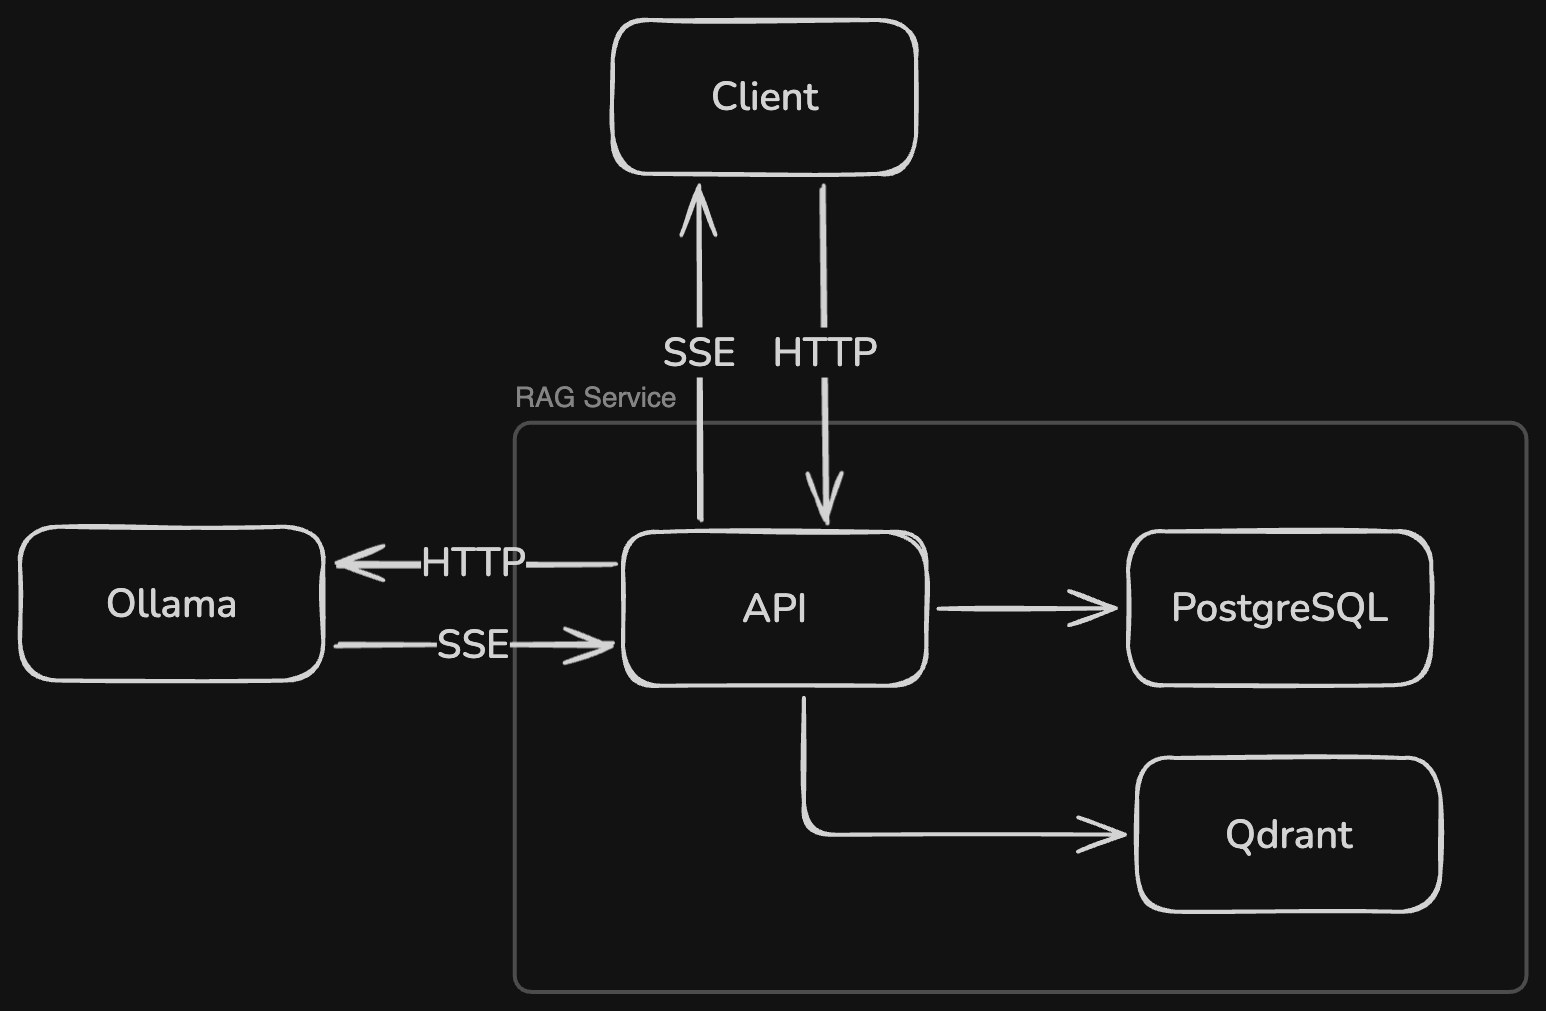
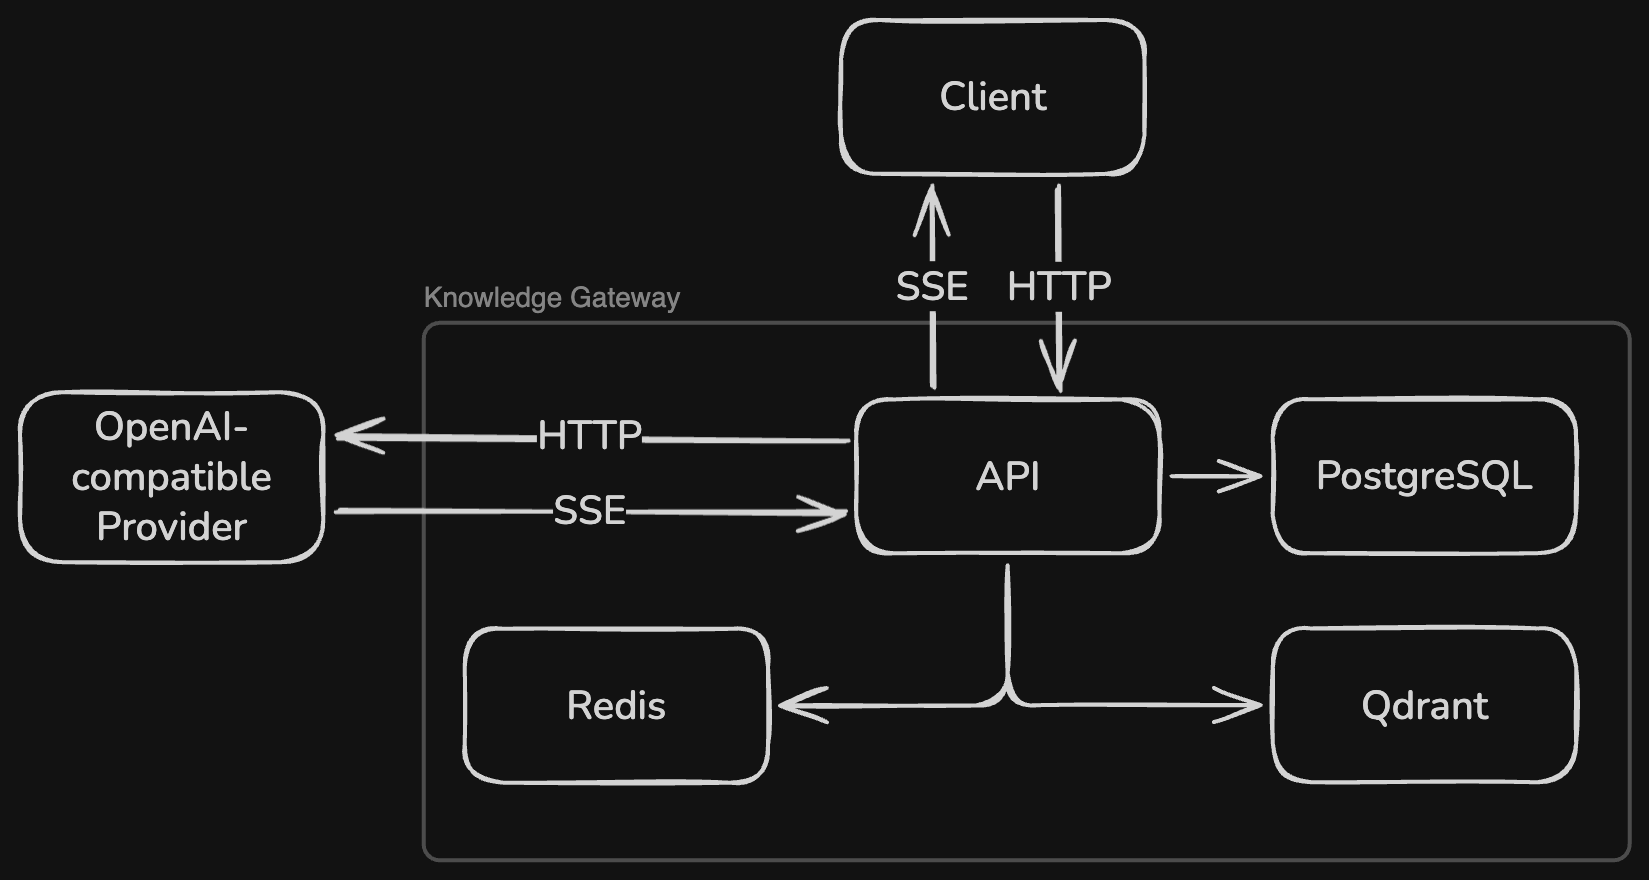
Configure pytest-cov for test coverage reporting; add coverage target to Makefile

diff --git a/README.md b/README.md
@@ -3,9 +3,10 @@
 > A private LLM gateway with retrieval-augmented generation. OpenAI-compatible API, vector search
 > over your documents, and per-user rate limiting — all self-hosted.
 
-[![Tests](https://github.com/laviprog/rag-service/actions/workflows/tests.yml/badge.svg?branch=main)](https://github.com/laviprog/rag-service/actions/workflows/tests.yml)
-[![Linting](https://github.com/laviprog/rag-service/actions/workflows/lint.yml/badge.svg?branch=main)](https://github.com/laviprog/rag-service/actions/workflows/lint.yml)
-[![Type Checking](https://github.com/laviprog/rag-service/actions/workflows/typecheck.yml/badge.svg?branch=main)](https://github.com/laviprog/rag-service/actions/workflows/typecheck.yml)
+[![Tests](https://github.com/laviprog/knowledge-gateway/actions/workflows/tests.yml/badge.svg?branch=main)](https://github.com/laviprog/knowledge-gateway/actions/workflows/tests.yml)
+[![Linting](https://github.com/laviprog/knowledge-gateway/actions/workflows/lint.yml/badge.svg?branch=main)](https://github.com/laviprog/knowledge-gateway/actions/workflows/lint.yml)
+[![Type Checking](https://github.com/laviprog/knowledge-gateway/actions/workflows/typecheck.yml/badge.svg?branch=main)](https://github.com/laviprog/knowledge-gateway/actions/workflows/typecheck.yml)
+[![Coverage](https://raw.githubusercontent.com/laviprog/knowledge-gateway/python-coverage-comment-action-data/badge.svg)](https://htmlpreview.github.io/?https://github.com/laviprog/knowledge-gateway/blob/python-coverage-comment-action-data/htmlcov/index.html)
 
 ![License](https://img.shields.io/badge/License-MIT-green)
 ![Python](https://img.shields.io/badge/Python-3.12+-3776AB?logo=python&logoColor=white)
@@ -194,9 +195,14 @@ Admin and dev-only routes are included in the OpenAPI schema only when `ENV=dev`
 The test suite uses `pytest` with `anyio` for async tests and `httpx` for HTTP-level testing.
 
 ```bash
-make test    # run all tests
-make check   # lint + format check + type check
+make test      # run all tests
+make coverage  # run all tests with a coverage report
+make check     # lint + format check + type check
 ```
+
+CI runs the suite with coverage on every push and pull request; the
+[`python-coverage-comment-action`](https://github.com/py-cov-action/python-coverage-comment-action)
+posts a coverage summary on pull requests and refreshes the coverage badge above.
 
 Coverage areas:
 